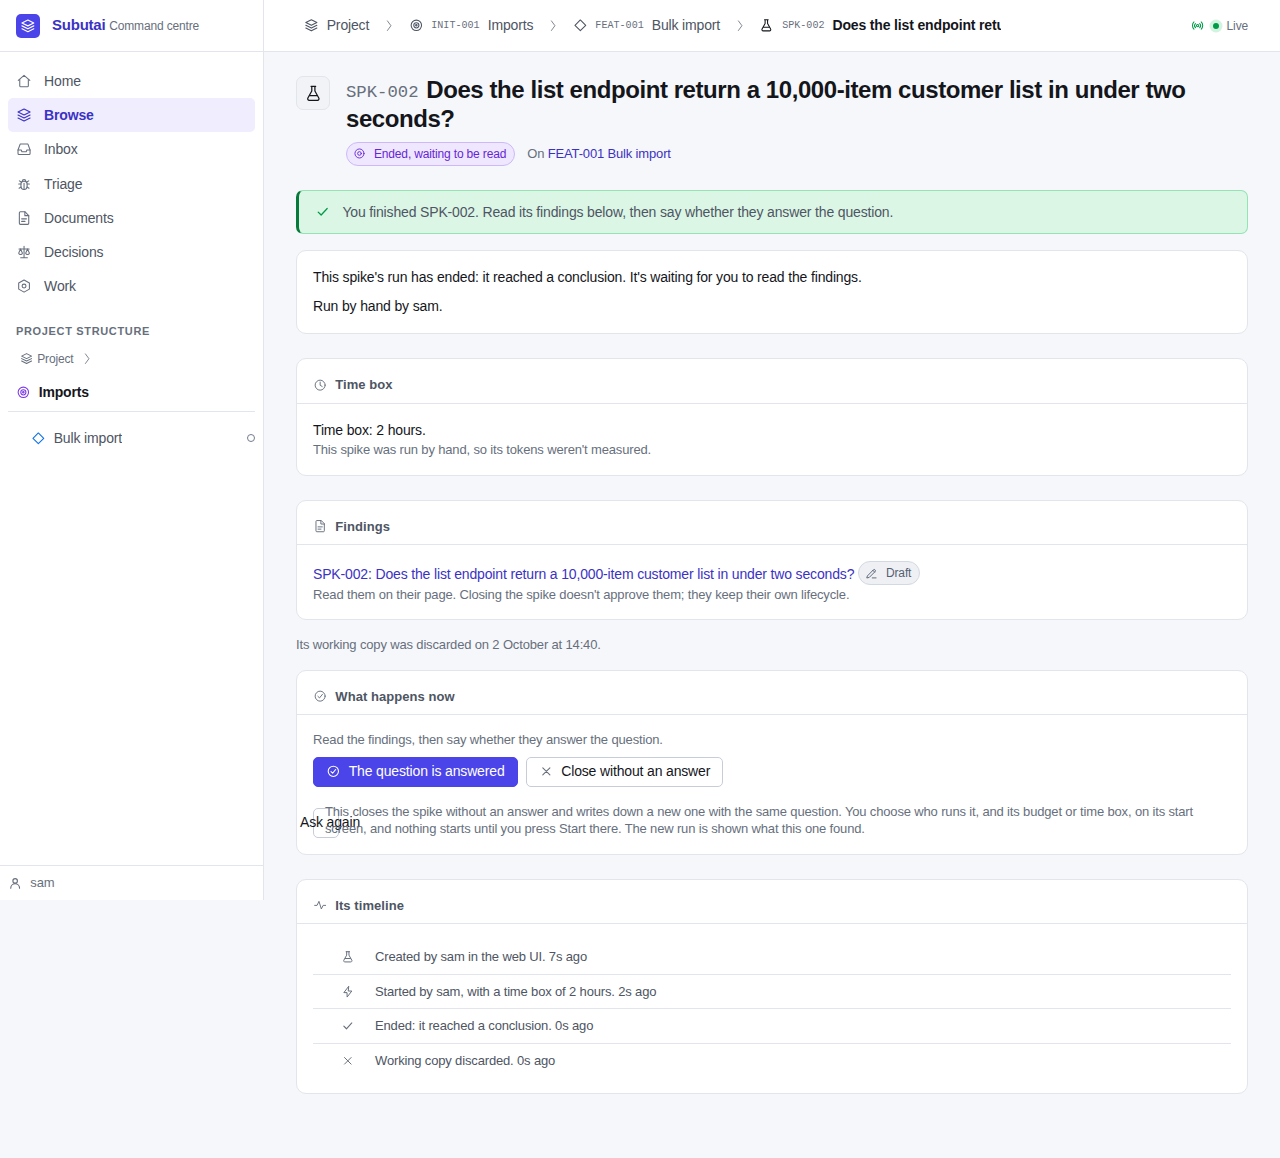
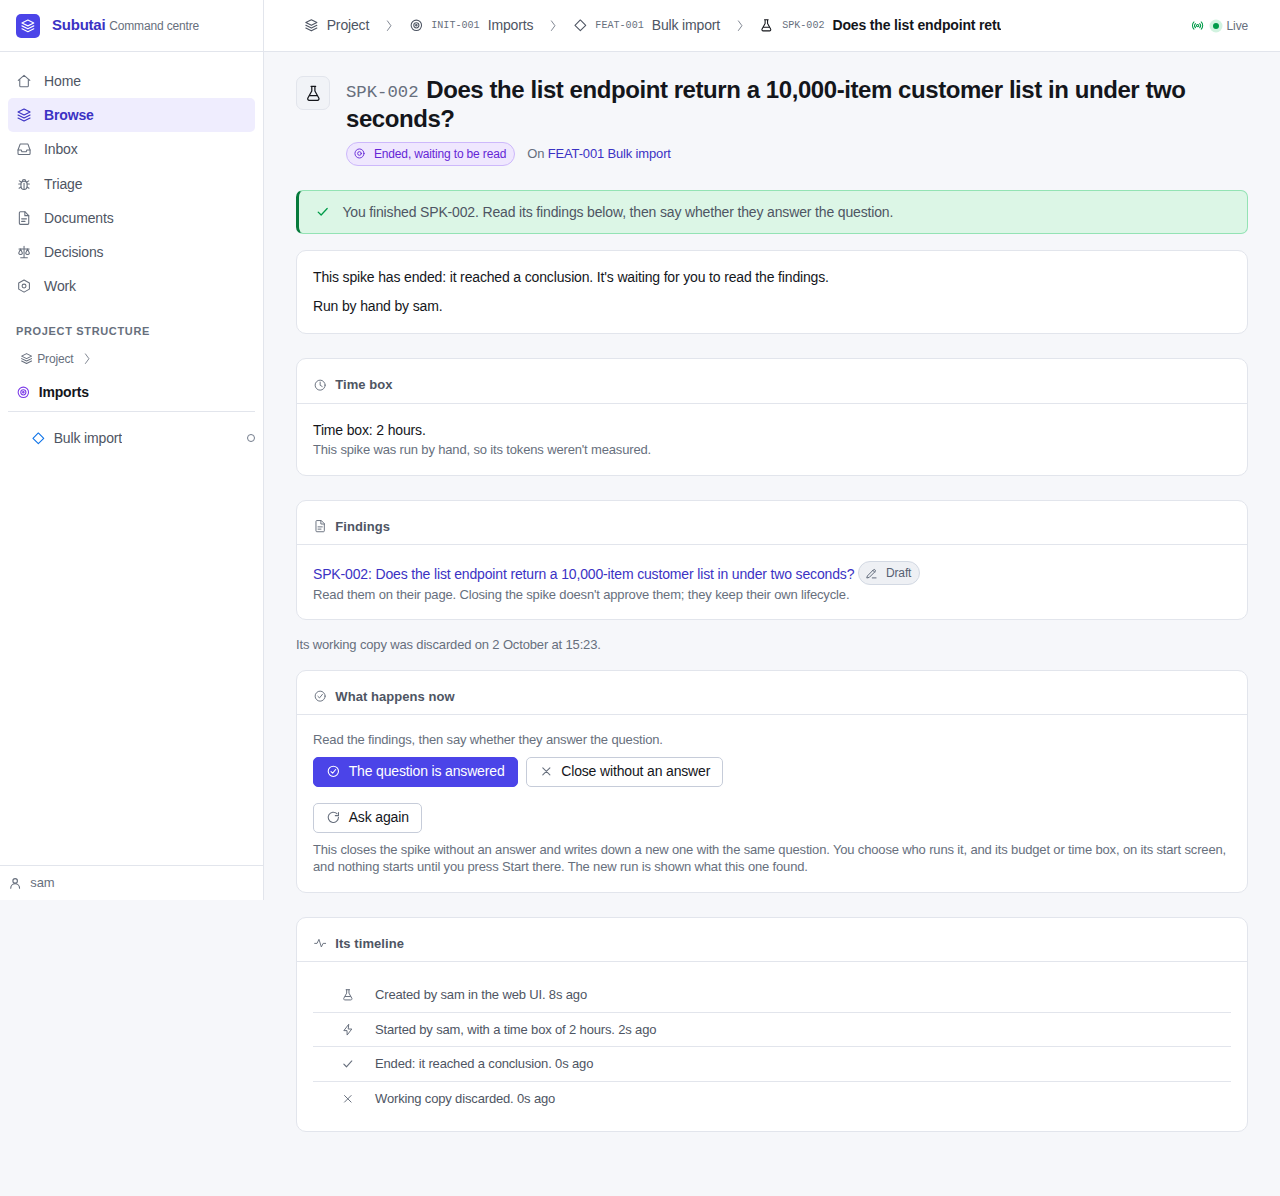
Walkthrough for SPEC-021 stage 2, run again after the round 2 fixes
Claude-Session: https://claude.ai/code/session_01X18V3c5pmxbEYTbaPc3g5w

diff --git a/docs/walkthrough-spec-021-stage2.md b/docs/walkthrough-spec-021-stage2.md
@@ -80,14 +80,14 @@ the spike's ID is refused with "SPK-001 is a spike, not a task. Use claim_spike
 to run it."
 
 `claim_spike` then returns:
-- `working_copy`: `/var/tmp/m14s2demo/.subutai/worktrees/spk-353dd2`, detached,
+- `working_copy`: `/var/tmp/m14s2demo/.subutai/worktrees/spk-c64c87`, detached,
   at the base commit;
 - `contract`: three keys, `question`, `where_it_came_from` and
   `findings_template` (six sections, each with what it is for and whether it is
   required). `decisions`, `earlier_findings` and `draft` are left out because
   this spike has none;
-- `deadline`: `2026-10-02T18:37:13Z`, and `time_left`: "The time box ends at
-  18:37 UTC, in 3 hours 59 minutes. Then the spike ends with whatever findings
+- `deadline`: `2026-10-02T19:23:12Z`, and `time_left`: "The time box ends at
+  19:23 UTC, in 3 hours 59 minutes. Then the spike ends with whatever findings
   you have saved.";
 - `rules`: seven sentences, the five of FR-13.4 and then one for each command
   the project allows (`build`, `run_tests`);
@@ -96,7 +96,7 @@ to run it."
 
 It then calls `save_spike_findings`: "Saved. If the time box ends now, this is
 what is kept." The spike's page shows the executor line, the time-box line
-("Time box: 4 hours, ending at 18:37 UTC on 2 October (3 hours 59 minutes
+("Time box: 4 hours, ending at 19:23 UTC on 2 October (3 hours 59 minutes
 left)."), the unmeasured line, who holds the claim, **Release the claim**, and
 the saved draft.
 
@@ -108,9 +108,12 @@ The chat agent first submits a one-section write-up. It is refused: "The
 findings can't be submitted yet: the findings need a What we found section with
 something in it. Nothing was changed." It then submits findings in the
 template's sections (Answer, What we found, How we found out, What to do next)
-and the spike ends as concluded. The page shows "Run in chat by the chat agent."
-and "This spike ran in chat, so its tokens weren't measured." in place of the
-token bar. The working copy was discarded.
+and the spike ends as concluded. The page says "This spike has ended: it reached
+a conclusion. It's waiting for you to read the findings.", then "Run in chat by
+the chat agent.", and "This spike ran in chat, so its tokens weren't measured."
+in place of the token bar. Its timeline reads "Ended: it reached a conclusion."
+The working copy was discarded. Under **What happens now**, **Ask again** is a
+bordered button on a line of its own, with its hint beneath it.
 
 ![The ended chat spike](walkthrough-spec-021-stage2/06-chat-spike-ended.png)
 
@@ -164,7 +167,8 @@ SQL, and the page is reloaded until the next heartbeat (5 seconds) ends it.
 
 ![Before: claimed, with a draft](walkthrough-spec-021-stage2/15-time-box-before.png)
 
-The spike has ended with the draft kept: "Reached its time box", and its
+The spike has ended with the draft kept: "This spike has ended: it reached its
+time box.", with "Ended: it reached its time box." in its timeline, and its
 findings hold the saved Answer and What we found, then "The spike reached the
 end of its time box of 4 hours. It ran in chat, so its tokens weren't
 measured." The working copy was discarded and the findings committed
@@ -183,7 +187,7 @@ on its page."
 and `claimed_at` are set to 26 hours ago in SQL. On the next heartbeat the
 claim sweep raises a `claim-stale` question, which reads as FR-13.1 gives it:
 "SPK-004, ..., was claimed by the chat agent 1 day ago, and nothing has changed
-in its working copy or its findings for 26 hours. Its time box ends at 18:37
+in its working copy or its findings for 26 hours. Its time box ends at 19:23
 UTC on 2 October. Is someone still working on it?" The answers are **Keep the
 claim** and **Release the claim**, with the spike's consequence: "The claim
 ends. The spike keeps running, its draft and working copy are kept, and its
@@ -203,40 +207,53 @@ The spikes list shows the executor in words beside each state: "chat", "chat",
 
 ## What the walkthrough found
 
-Everything above matched the spec. These are the things that looked wrong or
-worth a second look. No code was changed.
+The first run of this walkthrough found two things that looked wrong. Both were
+fixed in the round 2 fixes, and this run, on the fixed code, shows them
+corrected. No code was changed by the walkthrough itself.
 
-1. **The Ask again button is broken on a chat or person spike's page.** FR-15.5
-   says the third choice reads **Ask again** with no budget field. With no
-   field, the form (`class="triage-with-field"`, a two-column grid built for a
-   label, a field and a button) puts the button in the narrow first column and
-   the hint text runs over it: the word "Ask again" is drawn on top of "This
-   closes the spike...", and the button has no visible border. It is the same
-   on every ended chat or person spike. It is visible in
+1. **The Ask again button was broken on a chat or person spike's page.** With
+   no budget field, the form's two-column grid put the button in the narrow
+   first column and drew its label over the hint text, with no visible border.
+   Now **Ask again** is a bordered button on its own line and the hint sits
+   beneath it, on every ended chat or person spike. See
    [06](walkthrough-spec-021-stage2/06-chat-spike-ended.png),
    [13](walkthrough-spec-021-stage2/13-person-spike-ended.png) and
-   [16](walkthrough-spec-021-stage2/16-time-box-ended.png). It can still be
-   pressed, so it works, but it looks broken. The cause is the grid in
-   `internal/server/ui/static/app.css` (`.triage-with-field`), which the
-   spike's template uses without the field the grid assumes.
+   [16](walkthrough-spec-021-stage2/16-time-box-ended.png).
 
-   ![The broken Ask again button](walkthrough-spec-021-stage2/16-time-box-ended.png)
+   ![Ask again, fixed](walkthrough-spec-021-stage2/16-time-box-ended.png)
 
-2. **"Run" wording on a spike that had no run.** The ended chat or person
-   spike's page says "This spike's run has ended: it reached a conclusion." and,
-   after a time box, "This spike's run has ended: Reached its time box." The
-   second has a capital letter after the colon, and neither is true of a
-   spike that nobody ran in the spike runner's sense. The running draft panel
-   also says "If the run stops now, this is what is kept." Stage 1's sentences
-   were reused. They read oddly beside "Run in chat by the chat agent."
+2. **"Run" wording on a spike that had no run.** The first run showed "This
+   spike's run has ended: it reached a conclusion." and "This spike's run has
+   ended: Reached its time box.", and the draft panel said "If the run stops now,
+   this is what is kept." Now the page says "This spike has ended: it reached a
+   conclusion." or "This spike has ended: it reached its time box.", the draft
+   panel says "If the time box ends now, this is what is kept." (a person's
+   panel says "if the time box runs out, the spike ends with what is saved"),
+   and the timeline reads "Ended: it reached ...". See
+   [05](walkthrough-spec-021-stage2/05-chat-spike-claimed.png),
+   [06](walkthrough-spec-021-stage2/06-chat-spike-ended.png) and
+   [16](walkthrough-spec-021-stage2/16-time-box-ended.png).
+
+Still worth a look, and not changed (the spec allows them):
 
 3. **The start screen's spike runner panels stay on screen for a chat or
    person spike.** FR-12.1 says they "describe the spike runner, and say so",
-   and they do (the first panel says so), but the page still shows "The spike
-   runner runs it, on its model", "4 of 4 agent slots are free now" and
-   the spike runner's tools beneath a chosen **You**. It is accurate but busy;
-   a person choosing **You** is shown three panels that don't apply to them
+   and the first panel does ("This panel and the next two describe the spike
+   runner. A spike run in chat or by hand uses no agent slot."), but the page
+   still shows "The spike runner runs it, on claude-sonnet-5", "4 of 4 agent
+   slots are free now" and the spike runner's tools beneath a chosen **You**
    ([09](walkthrough-spec-021-stage2/09-start-screen-person.png)).
+
+4. **Some token and budget wording remains on pages for chat and person
+   spikes.** The start screen's subtitle still says "Starting spends tokens.
+   Check who will run it, what it will be given and its budget before you
+   commit." even with **The chat agent** or **You** chosen
+   ([03](walkthrough-spec-021-stage2/03-start-screen-chat.png)). The New spike
+   dialog offers only "Budget in tokens"
+   ([01](walkthrough-spec-021-stage2/01-new-spike-dialog.png)), and the spikes
+   list's intro calls a spike "a question with a budget: an agent works on it"
+   ([20](walkthrough-spec-021-stage2/20-spikes-list.png)). All are true of the
+   spike runner and read slightly off for the other two executors.
 
 Not shown: `claim_spike` after a release, a renewal, the leak check over a time
 box, and the stale answers **Keep the claim** and **Release the claim** being

diff --git a/docs/notes/handoff-M14-stage2-2026-10-02.md b/docs/notes/handoff-M14-stage2-2026-10-02.md
@@ -279,6 +279,11 @@ None is a major.
 13. **`claim-stale` with the defaults rarely fires before a 4-hour deadline**
     (24-hour expiry). SD-20 says so; a project may want a shorter expiry for
     spikes.
+14. **Some token and budget wording remains where a chat or person spike can
+    be chosen** (the walkthrough's second run): the start screen's subtitle
+    says "Starting spends tokens… its budget" whoever is chosen, the New spike
+    dialog offers only a budget, and the spikes list's intro says an agent
+    works on each spike.
 VERIFY_CANDIDATES_PLACEHOLDER
 
 ## Traps for the next session
